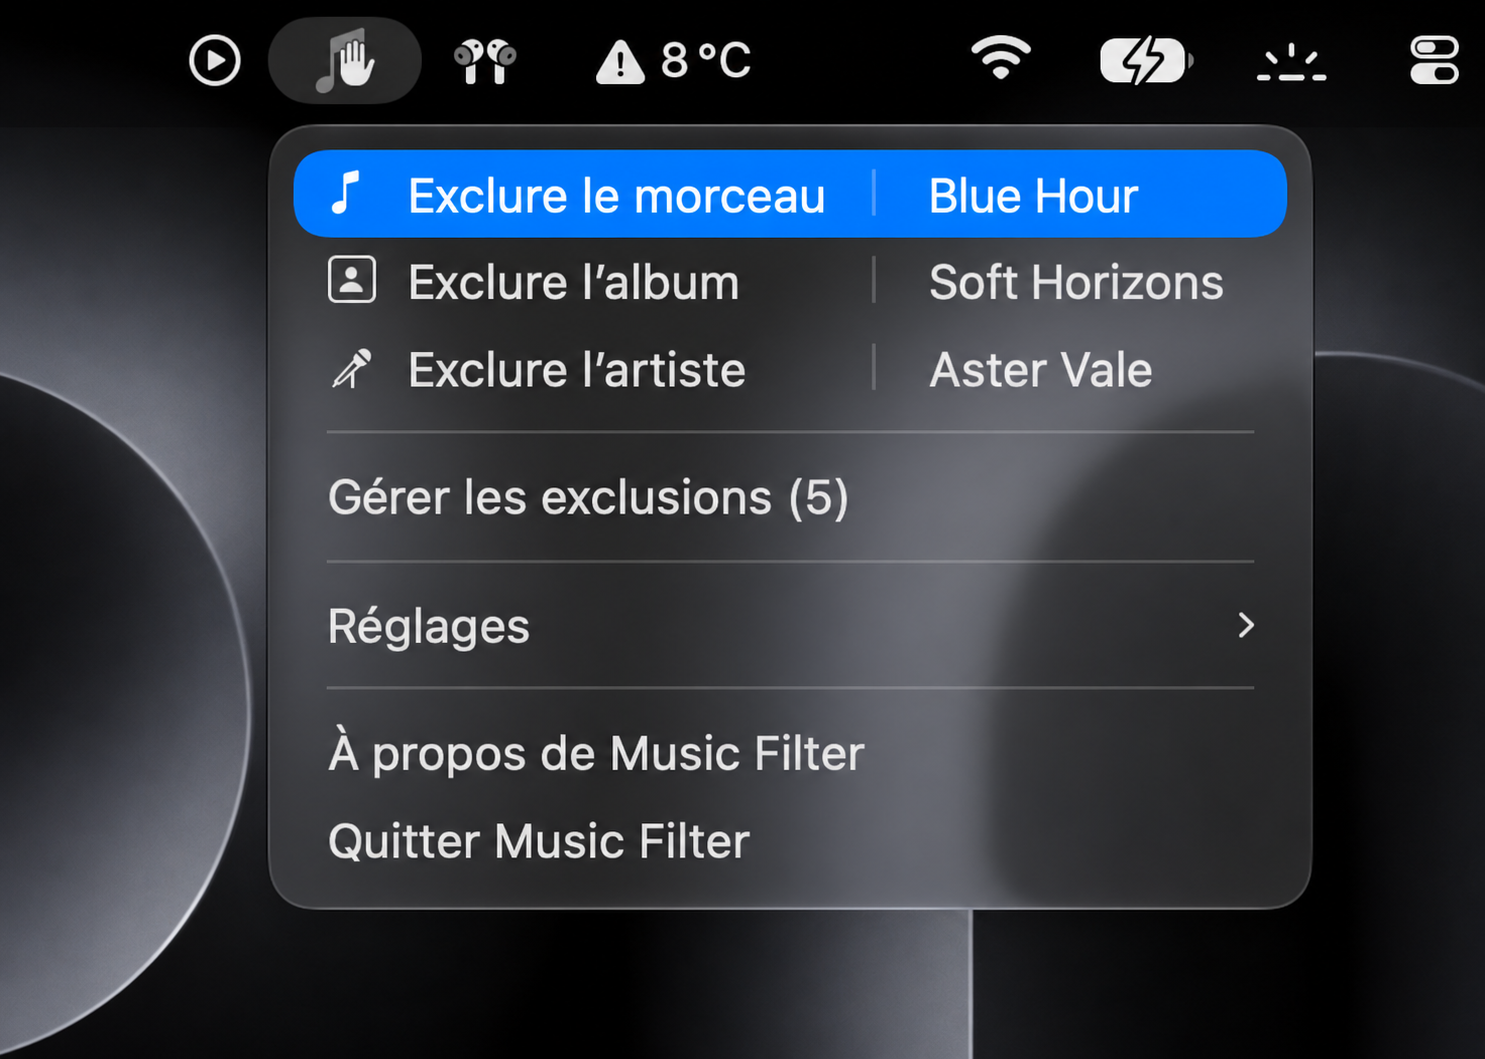
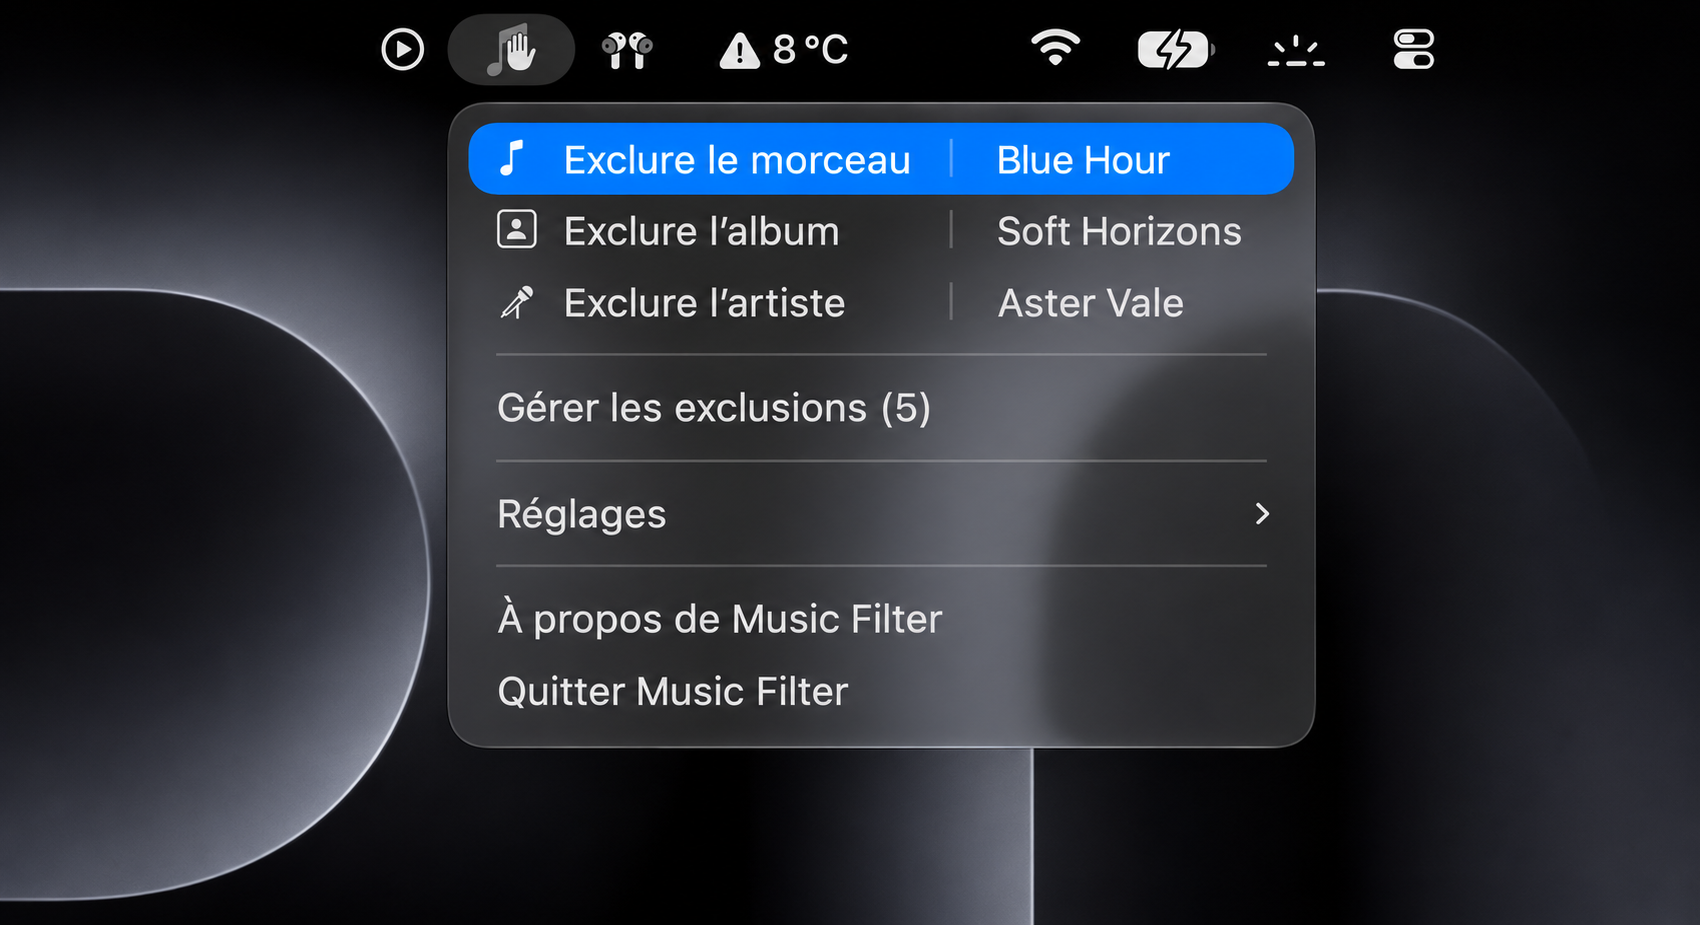
Match landscape framing for paired promotional images

diff --git a/Docs/Images/README.md b/Docs/Images/README.md
@@ -23,6 +23,6 @@ The following four **AI-retouched promotional illustrations** were prepared from
 | [music-filter-exclusions-contexte-fr-v1.png](music-filter-exclusions-contexte-fr-v1.png) | Three recent demo songs, five excluded demo songs, and export/import menu. |
 | [music-filter-recent-contexte-fr-v1.png](music-filter-recent-contexte-fr-v1.png) | Last automatic exclusion: Aster Vale — Blue Hour, with the red indicator. |
 
-Real song and artist names were replaced with fictional examples, the example counts were adjusted, and unrelated menu-bar icons and desktop files were removed. The retouching can subtly differ from the native rendering. The original, isolated English interface captures above remain available for comparison. Neither the original personal screenshots nor the user's exclusion list is included in this repository.
+Real song and artist names were replaced with fictional examples, the example counts were adjusted, and unrelated menu-bar icons and desktop files were removed. The main-menu illustration was subsequently reframed with the built-in image-generation tool into a 1700 × 925 px landscape canvas, matching the proportions of the paired 1701 × 925 px settings illustration for aligned side-by-side display. The retouching can subtly differ from the native rendering. The original, isolated English interface captures above remain available for comparison. Neither the original personal screenshots nor the user's exclusion list is included in this repository.
 
-**Français :** ces quatre illustrations de démonstration ont été retouchées avec un outil de génération d’images, à partir de captures fournies par l’auteur. Les noms sont fictifs ; les éléments du bureau sans rapport avec l’application ont été retirés. Elles ne constituent pas des captures brutes ni une preuve de retrait anticipé en direct. Les captures anglaises de l’interface native ci-dessus restent disponibles.
+**Français :** ces quatre illustrations de démonstration ont été retouchées avec un outil de génération d’images, à partir de captures fournies par l’auteur. Les noms sont fictifs ; les éléments du bureau sans rapport avec l’application ont été retirés. L’illustration du menu principal a ensuite été recadrée avec l’outil de génération d’images dans un format paysage de 1700 × 925 px, aux mêmes proportions que celle des réglages (1701 × 925 px), pour les aligner côte à côte. Elles ne constituent pas des captures brutes ni une preuve de retrait anticipé en direct. Les captures anglaises de l’interface native ci-dessus restent disponibles.
